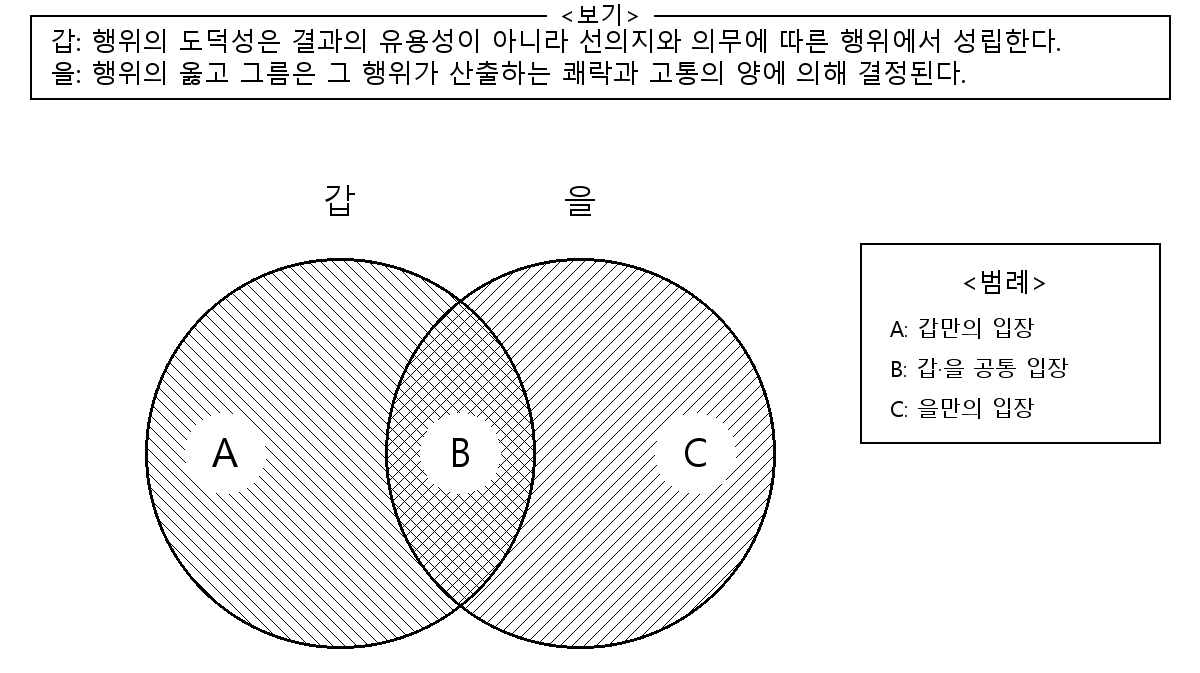
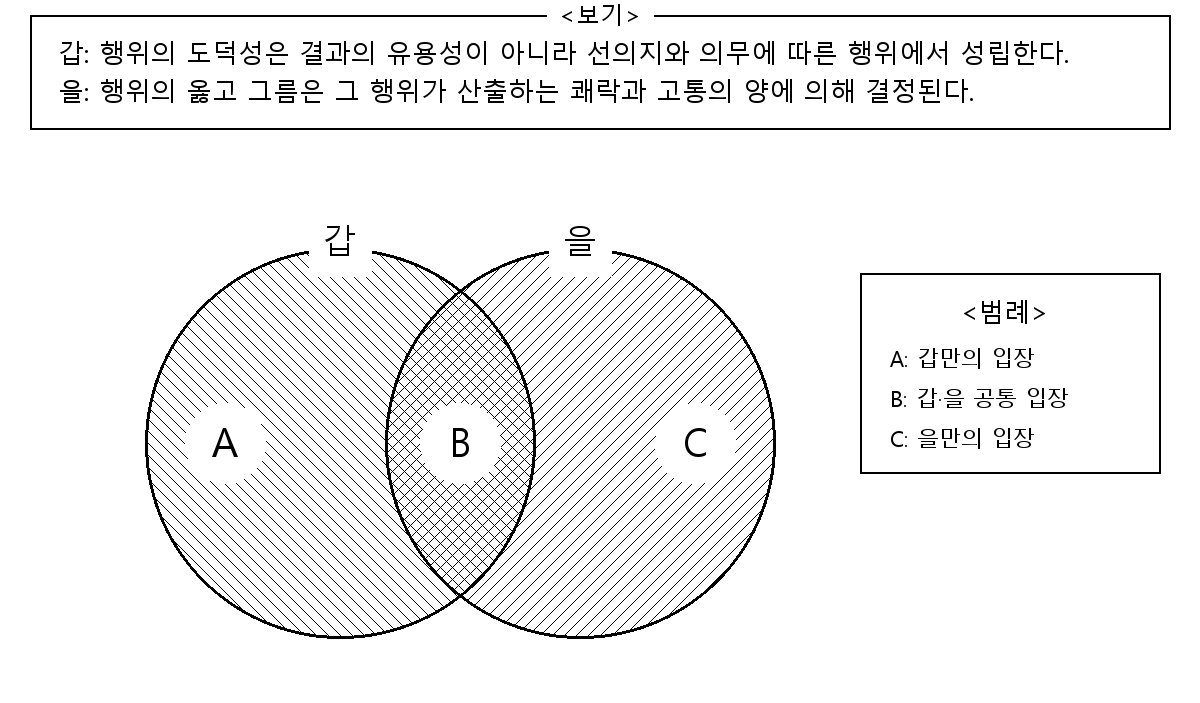
Widen dialogue padding and overlap Gap/Eul labels on the Venn rim with a solid white mask.

Changed region(s): [[0.1233, 0.2808, 0.6475, 0.9673], [0.0308, 0.0, 0.9867, 0.1872], [0.7092, 0.3744, 0.9867, 0.6865]]

diff --git a/edu_works/exam-tools/exam_hwpx/figures.py b/edu_works/exam-tools/exam_hwpx/figures.py
@@ -15,10 +15,10 @@ from PIL import Image, ImageChops, ImageDraw, ImageFont
 
 FigureKind = Literal["venn_gap_eul", "flowchart_gap_eul"]
 
-LINE_GAP = 4
-PARA_GAP = 8
-BOX_PAD_X = 20
-BOX_PAD_Y = 14
+LINE_GAP = 6
+PARA_GAP = 14
+BOX_PAD_X = 28
+BOX_PAD_Y = 26
 TITLE_GAP = 6  # 제목을 테두리 위에 올릴 때는 거의 쓰이지 않음
 
 
@@ -215,10 +215,10 @@ def _render_venn_body(size: Tuple[int, int]) -> Image.Image:
     font_name = _font(34)
     font_lab = _font(40)
 
-    # 원 위치를 낮춰 갑/을을 원 밖 위에 둠
+    # 원 상단에 갑/을이 겹치도록 여유만 조금 둠
     r = 195
-    c1 = (340, 340)
-    c2 = (580, 340)
+    c1 = (340, 300)
+    c2 = (580, 300)
     bbox1 = (c1[0] - r, c1[1] - r, c1[0] + r, c1[1] + r)
     bbox2 = (c2[0] - r, c2[1] - r, c2[0] + r, c2[1] + r)
 
@@ -244,13 +244,18 @@ def _render_venn_body(size: Tuple[int, int]) -> Image.Image:
     label_b = ((c1[0] + c2[0]) // 2, c1[1])
     label_c = (c2[0] + 115, c2[1])
 
-    # 갑/을: 원 꼭대기와 충분히 떨어뜨리고 흰 사각으로 해칭/원선과 분리
+    # 갑/을: 원 상단에 걸치되, 흰 사각을 원 안쪽까지 넉넉히 깔아 원선·해칭을 끊음
     for center, label in ((c1, "갑"), (c2, "을")):
-        tw, th = _text_size(draw, label, font_name)
-        lx = center[0] - tw // 2
-        ly = center[1] - r - th - 42
-        draw.rectangle((lx - 10, ly - 8, lx + tw + 10, ly + th + 8), fill="white")
         bbox = draw.textbbox((0, 0), label, font=font_name)
+        tw, th = bbox[2] - bbox[0], bbox[3] - bbox[1]
+        cx, top = center[0], center[1] - r
+        # 글자 하단이 원 안으로 들어가게 배치
+        ly = top - th + 8
+        lx = cx - tw // 2
+        draw.rectangle(
+            (lx - 14, ly - 8, lx + tw + 14, top + 28),
+            fill="white",
+        )
         draw.text((lx - bbox[0], ly - bbox[1]), label, fill="black", font=font_name)
 
     # A/B/C: 해칭을 뚫는 큰 흰 원 + 중앙 정렬
